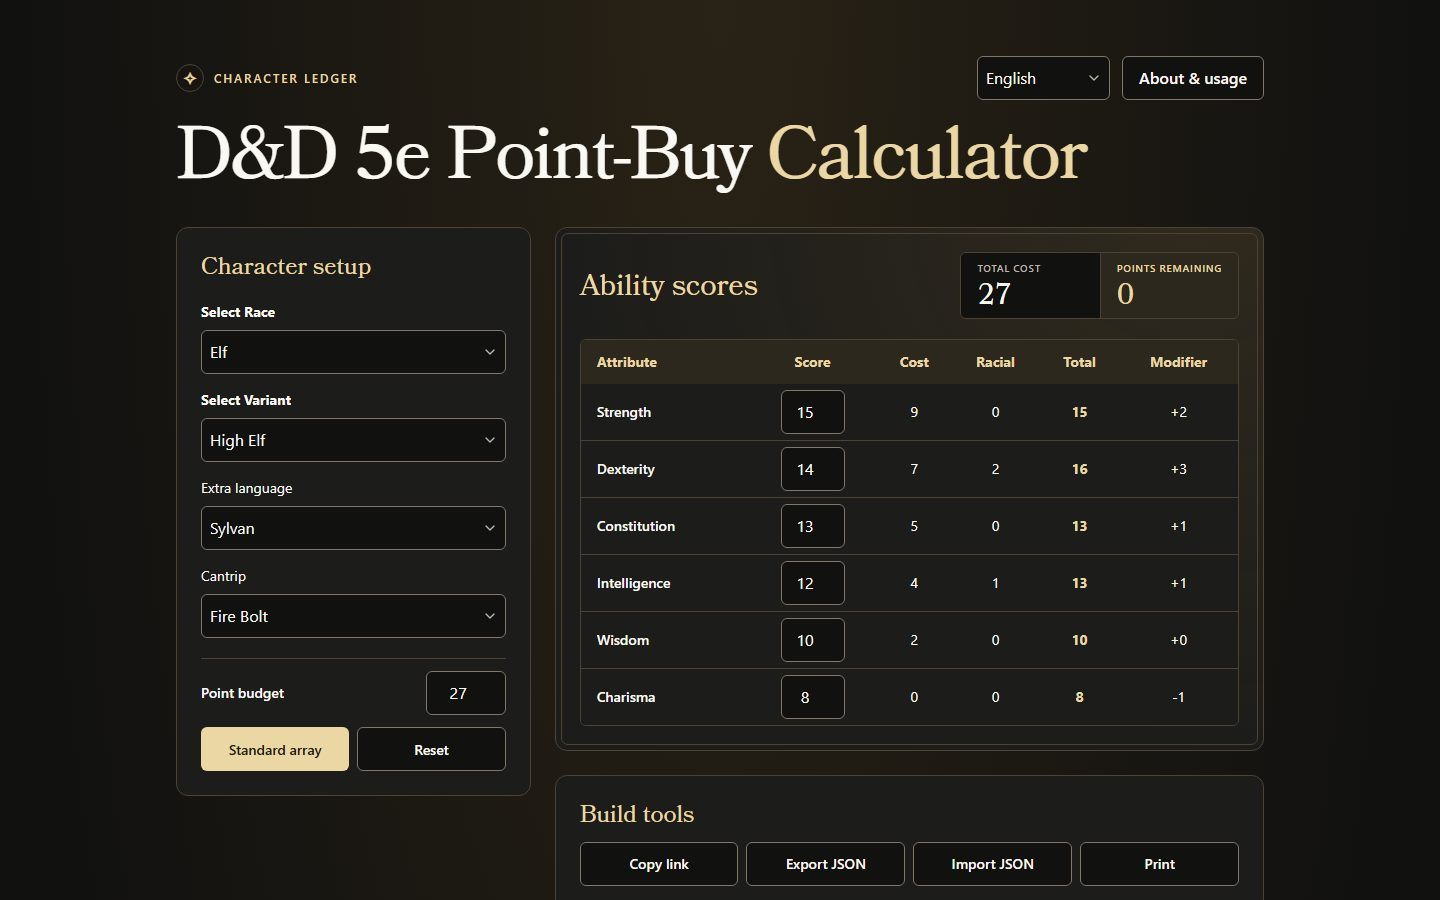
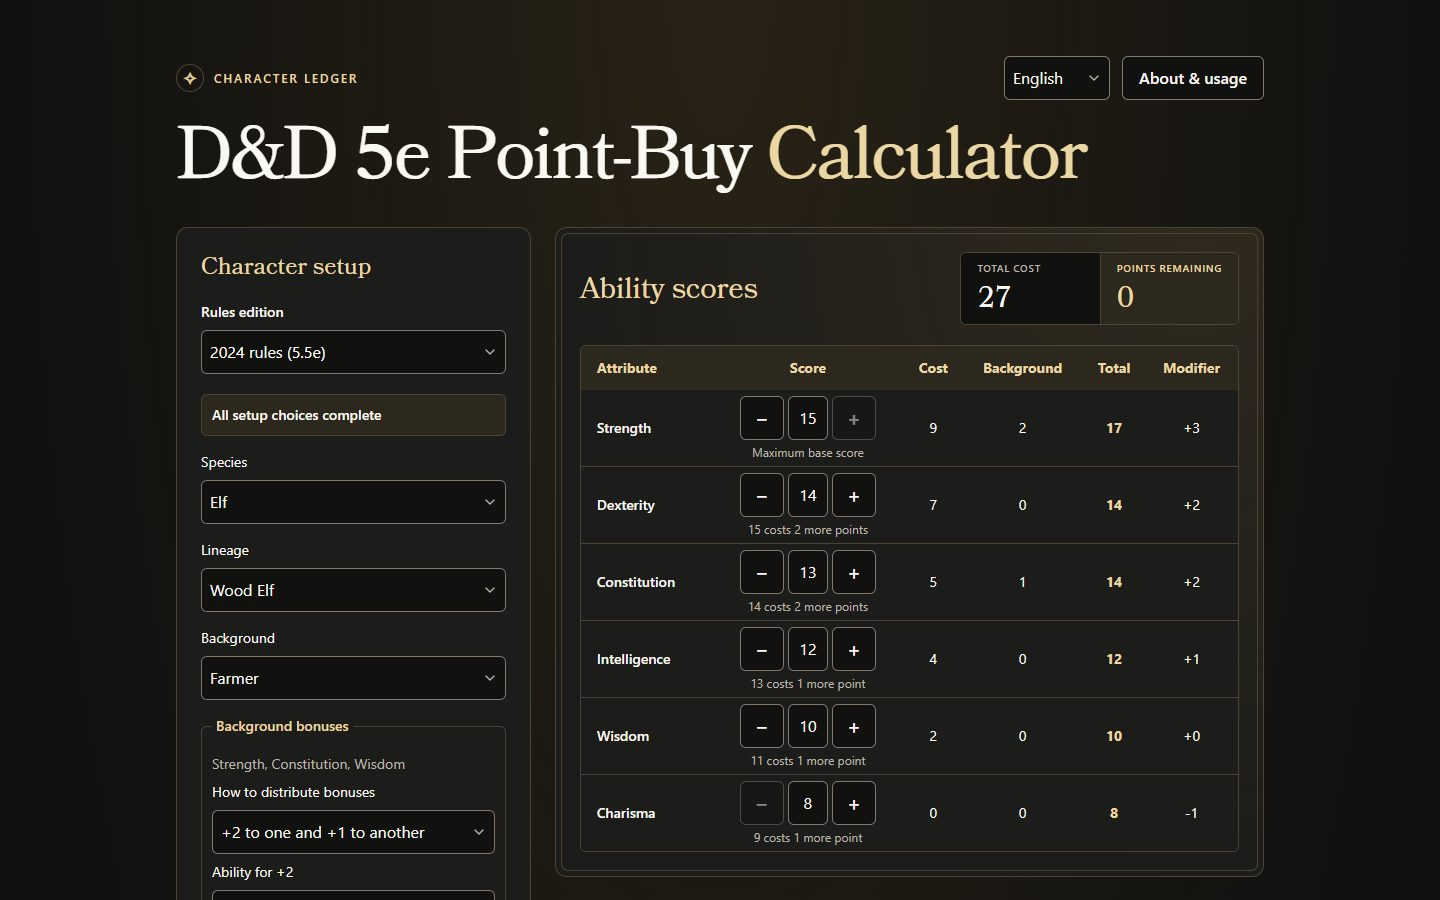
Refresh D&D calculator and Harptos portfolio entries

diff --git a/src/data/projectDetails.ts b/src/data/projectDetails.ts
@@ -160,20 +160,18 @@ export const PROJECT_DETAILS: Record<string, ProjectDetails> = {
     ],
   },
   "harptos-calendar-tracker": {
-    why: "Running a Forgotten Realms session means tracking Harptos dates, festival days, local light and weather by hand. The tracker keeps one campaign clock on a single screen so a DM can advance time, switch Sword Coast locations and copy a ready line into their notes.",
+    why: "A Dungeon Master can advance a campaign through travel, downtime or a change of setting from one screen. The tracker keeps the date, local light and weather in step and produces a line ready to copy into session notes.",
     features: [
-      "Set or advance the Harptos clock by hour, day or tenday, including festival days, Shieldmeet and year titles.",
-      "Switch among Neverwinter, Phandalin, Baldur’s Gate and Waterdeep while keeping the campaign date and time.",
-      "Location-aware daylight phases and Faerûnian clock markers derived from the current date.",
-      "Seeded hourly weather that stays the same when you skip ahead, revisit an hour or reload.",
+      "Set the local date and time or advance by hours, a day or a tenday. In Faerûn, the Harptos month view highlights the campaign day and shows tendays and festivals, including Shieldmeet in leap years.",
+      "Switch among eleven locations, including Halruaa, Sharn, Greyhawk and Sigil. The same campaign moment is displayed in the selected location’s calendar, with a campaign day count in Sigil and the Radiant Citadel.",
+      "See local light phases, clock markers and hourly weather. Weather follows local fronts with fog near dawn, precipitation transitions and short thunderstorms where conditions allow.",
       "A one-line campaign summary with copy-to-clipboard, plus share links that open as a read-only preview and can be adopted into the browser’s saved campaign.",
       "English by default, with an existing Simplified Chinese preference applied to the interface, summary and shared preview.",
     ],
     engineering: [
-      "A Vite, React and TypeScript app. Campaign time is stored as elapsed minutes from 1 Hammer 1 DR, with calendar rules kept independent of the browser.",
-      "Daylight, time markers and weather are derived from the saved clock, location and weather seed rather than stored as editable labels.",
-      "Share URLs carry time, location and seed for a read-only preview; adopting writes one snapshot before editing resumes.",
-      "Browser-local persistence for a single campaign, with localisation for display labels and Harptos date formatting.",
+      "React and TypeScript on Vite, with calendar rules independent of the browser. Local date conversion and editing use a shared timeline measured in elapsed minutes from 1 Hammer 1 DR.",
+      "Location profiles and the campaign clock determine daylight. Seeded weather yields the same condition for a given location and hour after a time jump, reload or adoption of a share link.",
+      "The browser stores the clock, location and seed as a single snapshot. Edits stay in the current tab if a save fails and are included in the next successful save.",
     ],
   },
   "no-place-to-rest": {
@@ -207,16 +205,17 @@ export const PROJECT_DETAILS: Record<string, ProjectDetails> = {
     ],
   },
   "dnd-point-buy-calc": {
-    why: "Point-buy character creation in D&D 5e means juggling point costs, racial bonuses and modifiers by hand. This calculator does the bookkeeping live, so players can focus on the character.",
+    why: "Players building a character before session zero can try different ability score arrays and see how their origin choices affect the result. The calculator defaults to the 2024 rules and lets players switch to the 2014 rules in Character Setup.",
     features: [
-      "Adjust all six ability scores and see each point cost against the 27-point budget as you go.",
-      "Racial bonuses for the standard races and their variants, such as Hill and Mountain Dwarf or High, Wood and Drow Elf.",
-      "Free-choice bonuses for races such as Half-Elf, Variant Human and Changeling.",
-      "Modifiers and final totals that update in real time.",
+      "Adjust all six base scores or fill the standard array. Point costs, remaining budget, final scores and modifiers update as you edit.",
+      "Under the 2024 rules, choose a Player’s Handbook species and background, assign the background’s ability increases, and see its skills and Origin feat.",
+      "Under the 2014 rules, apply race and variant bonuses and make choices such as a High Elf’s wizard cantrip or a Variant Human’s feat.",
+      "Copy a share link, import or export a JSON build, or print a build summary. Share links preserve the rules edition and language.",
     ],
     engineering: [
-      "A Next.js and TypeScript app styled with Tailwind CSS, using React Context for the selected race, scores and bonuses.",
-      "Race data drives the rules, so adding a race or variant is a data change rather than new logic.",
+      "A client-side React and TypeScript app built with Vite and styled with Tailwind CSS. React Context keeps edition-specific choices separate while both editions use the same base scores and budget.",
+      "TypeScript data modules define origins and racial bonuses. Pure functions calculate point costs, bonuses and ability modifiers.",
+      "Build links without an edition marker and version 1 JSON exports still open in 2014 mode. A failed import leaves the current build intact.",
     ],
   },
 };

diff --git a/src/data/projects.ts b/src/data/projects.ts
@@ -111,10 +111,13 @@ export const PROJECTS: ProjectData[] = [
     url: "https://harptos.starmist.studio/",
     repo: "https://github.com/starbornone/harptos-calendar-tracker",
     description:
-      "A Dungeon Master tool for Faerûn campaigns that models the Harptos calendar end to end—festivals, Shieldmeet, and year titles included. Set or advance campaign time across Neverwinter, Phandalin, Baldur’s Gate, and Waterdeep, with location-aware daylight phases and seeded hourly weather that stays consistent across skips and reloads. Shareable campaign links support read-only previews and optional adoption, with English and Simplified Chinese localisation and a one-line summary built for session notes.",
+      "A Dungeon Master tool for tracking one campaign across eleven locations in Faerûn and other D&D settings. Advance the clock, browse Harptos tendays and festivals, or enter a date in the selected location’s calendar. Local daylight and seeded hourly weather follow the campaign clock. Copy a one-line summary into session notes or share a read-only preview that another DM can adopt.",
     roles: ["UI Design", "Development"],
-    tech: ["React", "TypeScript", "Vite", "Tailwind CSS"],
-    images: ["/images/projects/harptos-calendar-tracker-01.jpg"],
+    tech: ["React", "TypeScript", "Vite", "Tailwind CSS", "shadcn/ui"],
+    images: [
+      "/images/projects/harptos-calendar-tracker-01.jpg",
+      "/images/projects/harptos-calendar-tracker-02.jpg",
+    ],
   },
   {
     id: "vcfo-accountants",
@@ -180,12 +183,12 @@ export const PROJECTS: ProjectData[] = [
   },
   {
     id: "dnd-point-buy-calc",
-    name: "D&D Point Buy Calculator",
+    name: "D&D 5e Point-Buy Calculator",
     url: "https://dnd.starmist.studio/",
     description:
-      "An intuitive D&D 5e character creation tool featuring a sophisticated point-buy system with real-time calculations and validation. Supports all official races and subraces, including custom content, with automatic modifier calculations and stat maximums. Includes detailed tooltips, mobile responsiveness, and shareable character builds via URL parameters.",
+      "Build starting ability scores for Dungeons & Dragons using the 2024 or 2014 rules. The calculator tallies point costs, applies background or racial bonuses, and updates ability modifiers as you edit. Share a build by link, save and restore it as JSON, or print a summary. The interface is available in English and Simplified Chinese.",
     roles: ["Full-Stack Developer", "UI/UX Designer"],
-    tech: ["Next.js", "TypeScript", "Tailwind CSS", "React"],
+    tech: ["React", "TypeScript", "Vite", "Tailwind CSS"],
     images: [
       "/images/projects/dnd-point-buy-calc-01.jpg",
       "/images/projects/dnd-point-buy-calc-02.jpg",
